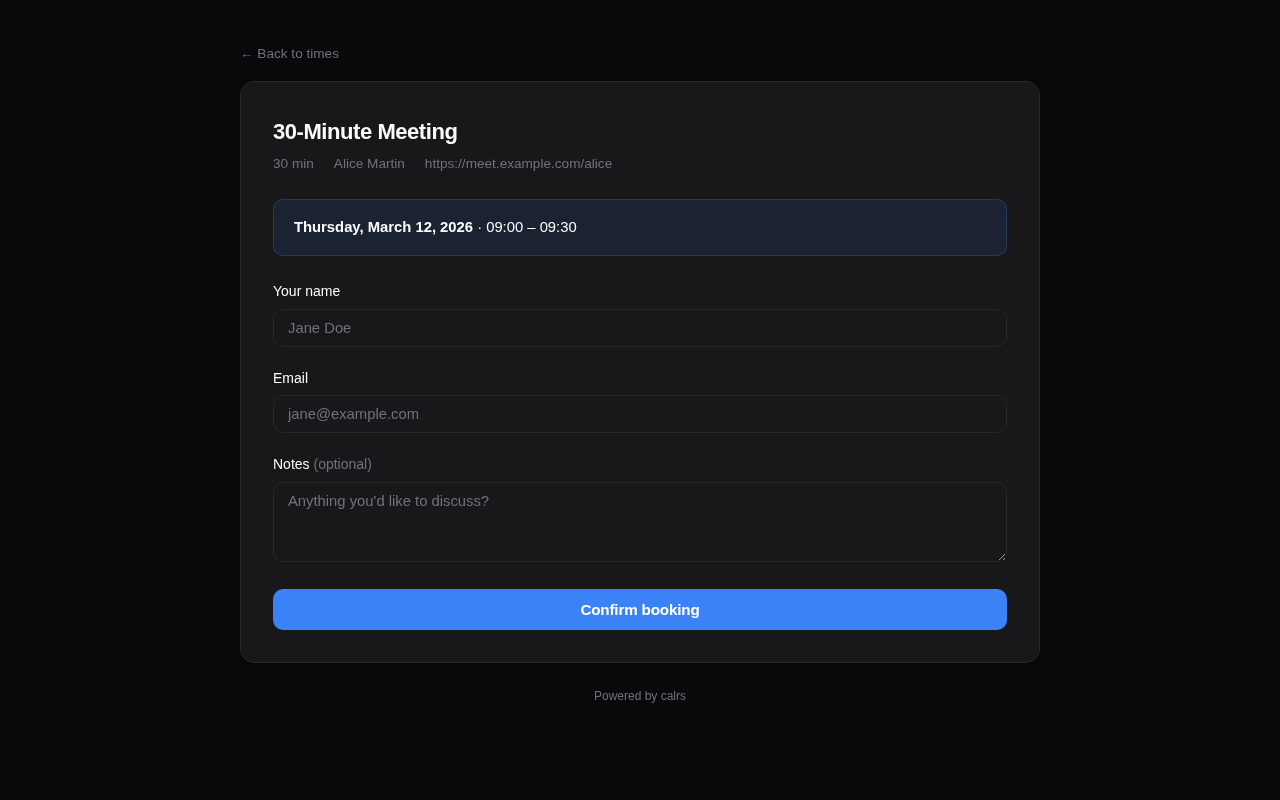
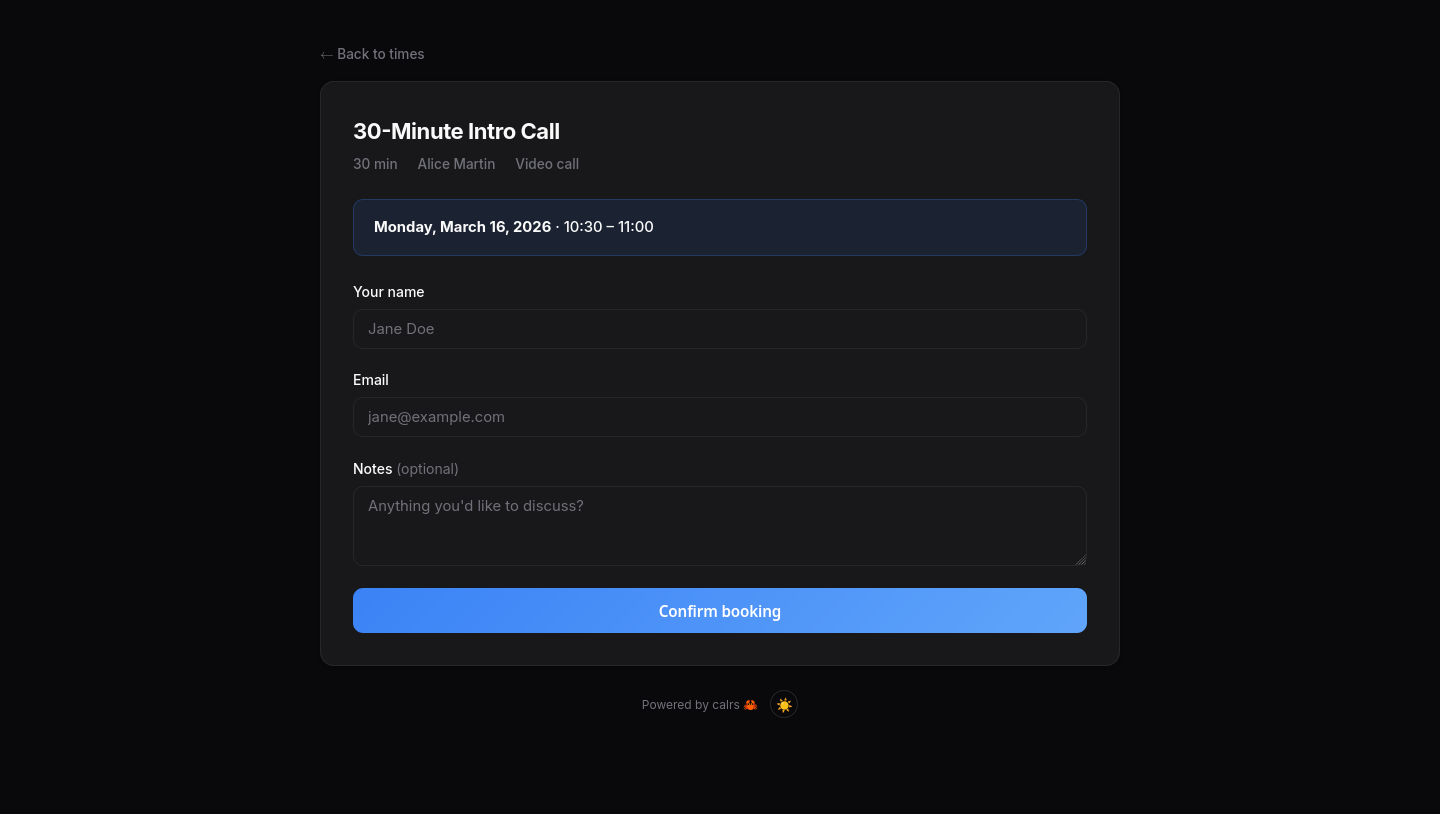
update: v0.22.0 — reschedule feature, refreshed screenshots
- Add reschedule feature card
- Add reschedule screenshots (slot picker + confirmation)
- Update test count (243+)
- Refresh all 22 screenshots with seeded data

diff --git a/index.html b/index.html
@@ -481,6 +481,11 @@
         <p>Hide event types from your public profile. Send personalized invite links with pre-filled guest info, expiration dates, and usage limits. Perfect for sales-qualified demos — reps send invites, the demo team's round-robin handles assignment.</p>
       </div>
       <div class="feature-card">
+        <div class="feature-icon">&#128260;</div>
+        <h3>Reschedule</h3>
+        <p>Guests and hosts can reschedule bookings without cancelling. Guests pick a new slot and the host approves; hosts reschedule instantly. CalDAV events updated in place, tokens regenerated, both parties notified.</p>
+      </div>
+      <div class="feature-card">
         <div class="feature-icon">&#128274;</div>
         <h3>Security</h3>
         <p>Argon2 password hashing, OIDC SSO with PKCE, AES-256-GCM encrypted credentials at rest. Hidden password input. Auto-generated secret key or bring your own via environment variable.</p>
@@ -503,7 +508,7 @@
       <div class="feature-card">
         <div class="feature-icon">&#9989;</div>
         <h3>Tested &amp; verified</h3>
-        <p>225+ automated tests covering availability engine, slot computation, database migrations, RRULE expansion, iCal parsing, timezone conversion, and email rendering. Every commit is checked by CI with code coverage tracking.</p>
+        <p>243+ automated tests covering availability engine, slot computation, database migrations, RRULE expansion, iCal parsing, timezone conversion, and email rendering. Every commit is checked by CI with code coverage tracking.</p>
         <p style="margin-top: 0.75rem; display: flex; gap: 0.5rem; flex-wrap: wrap;"><a href="https://github.com/olivierlambert/calrs/actions/workflows/ci.yml"><img src="https://github.com/olivierlambert/calrs/actions/workflows/ci.yml/badge.svg" alt="CI" style="height: 20px;"></a> <a href="https://codecov.io/gh/olivierlambert/calrs"><img src="https://codecov.io/gh/olivierlambert/calrs/graph/badge.svg" alt="codecov" style="height: 20px;"></a></p>
       </div>
       <div class="feature-card">
@@ -570,6 +575,14 @@
       <div class="showcase-item">
         <img src="assets/screenshots/profile.png" alt="Public profile" loading="lazy">
         <div class="caption">Public booking profile</div>
+      </div>
+      <div class="showcase-item">
+        <img src="assets/screenshots/reschedule.png" alt="Reschedule slot picker" loading="lazy">
+        <div class="caption">Reschedule slot picker</div>
+      </div>
+      <div class="showcase-item">
+        <img src="assets/screenshots/reschedule-confirm.png" alt="Reschedule confirmation" loading="lazy">
+        <div class="caption">Reschedule confirmation</div>
       </div>
     </div>
 
